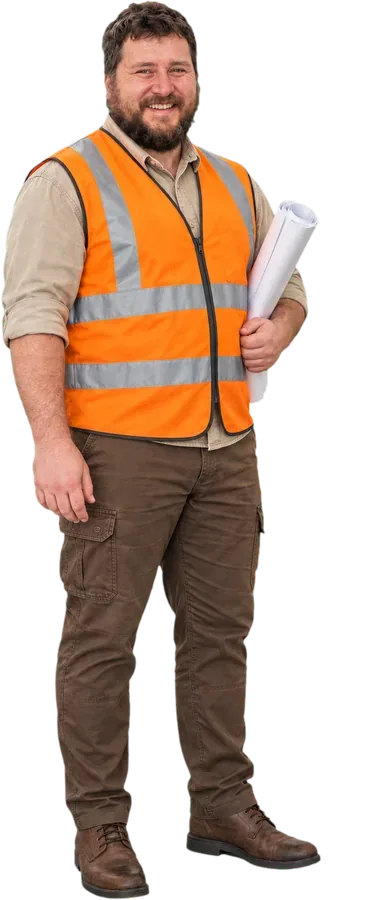
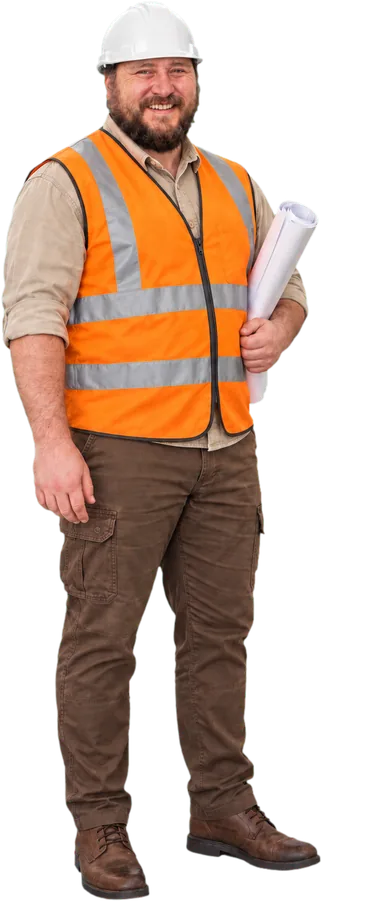
Sync z kamenictvi-web 04e905e

diff --git a/postava.js b/postava.js
@@ -1,12 +1,12 @@
 /* Kamenik Ales se pri scrollu prevlece podle sekce (12. 10. 2026).
-   Postava vyskoci z obrazovky nahoru a spadne zpet uz v nove podobe; u staveb mu helma dopadne na hlavu.
+   Postava vyskoci z obrazovky nahoru a spadne zpet uz v nove podobe; u staveb ma helmu nasazenou primo v obrazku (15. 10. 2026, vytka AP: prilétající helma sedela spatne).
    14. 10. 2026 (vytka AP "na kazde fotce vypadam jinak"): vsechny podoby = jedna vychozi postava, meni se jen obleceni;
    stejna vyska temeno-podrazka (900 px), osa hlavy ve stejne vzdalenosti od praveho okraje. */
 (function(){
   var POSTAVY = {
     nahrobky: { src: "/obrazky/postava-hroby.webp?v=1014ze", w: 381, h: 900 },
     interier: { src: "/obrazky/postava-interier.webp?v=1014ze", w: 545, h: 900 },
-    stavby: { src: "/obrazky/postava-stavby.webp?v=1014ze", w: 385, h: 900, helma: { x: 0.40, y: -0.055, w: 0.39 } },
+    stavby: { src: "/obrazky/postava-stavby.webp?v=1015a", w: 385, h: 901 },
     obce: { src: "/obrazky/postava-obce.webp?v=1014ze", w: 399, h: 900,
       skici: ["/obrazky/postava-obce-tgm.webp?v=1014ze", "/obrazky/postava-obce-valecny.webp?v=1014ze", "/obrazky/postava-obce-hrobka.webp?v=1014ze", "/obrazky/postava-obce-kriz.webp?v=1014ze"] }
   };
@@ -41,9 +41,9 @@
   var box = document.createElement("div");
   box.className = "postava";
   box.setAttribute("aria-hidden", "true");
-  box.innerHTML = '<div class="postava__telo"><img alt="" decoding="async"></div><img class="postava__helma" src="/obrazky/postava-helma.webp" alt="" decoding="async">';
+  box.innerHTML = '<div class="postava__telo"><img alt="" decoding="async"></div>';
   document.body.appendChild(box);
-  var telo = box.querySelector(".postava__telo"), img = telo.querySelector("img"), helma = box.querySelector(".postava__helma");
+  var telo = box.querySelector(".postava__telo"), img = telo.querySelector("img");
   ids.forEach(function(id){ var p = new Image(); p.src = POSTAVY[id].src; });
 
   /* Obce: na desce je vzdy nakreslen pamatnik, na ktery Ales prave ukazuje (vytka AP 14. 10. 2026).

diff --git a/index.html b/index.html
@@ -277,6 +277,6 @@
 <div class="mbar" aria-label="Rychlý kontakt"><a class="mbar__call" href="tel:+420602108793">Zavolat</a><a class="mbar__form" href="/#kontakt">Poptávka</a></div>
 
 <script src="/skript.js?v=1014zi"></script>
-<script src="/postava.js?v=1014zh" defer></script>
+<script src="/postava.js?v=1015a" defer></script>
 </body>
 </html>

diff --git a/de/index.html b/de/index.html
@@ -278,6 +278,6 @@
 
 <script src="/jazyky.js?v=1014y"></script>
 <script src="/skript.js?v=1014zi"></script>
-<script src="/postava.js?v=1014zh" defer></script>
+<script src="/postava.js?v=1015a" defer></script>
 </body>
 </html>

diff --git a/en/index.html b/en/index.html
@@ -278,6 +278,6 @@
 
 <script src="/jazyky.js?v=1014y"></script>
 <script src="/skript.js?v=1014zi"></script>
-<script src="/postava.js?v=1014zh" defer></script>
+<script src="/postava.js?v=1015a" defer></script>
 </body>
 </html>

diff --git a/pl/index.html b/pl/index.html
@@ -278,6 +278,6 @@
 
 <script src="/jazyky.js?v=1014y"></script>
 <script src="/skript.js?v=1014zi"></script>
-<script src="/postava.js?v=1014zh" defer></script>
+<script src="/postava.js?v=1015a" defer></script>
 </body>
 </html>

diff --git a/sk/index.html b/sk/index.html
@@ -278,6 +278,6 @@
 
 <script src="/jazyky.js?v=1014y"></script>
 <script src="/skript.js?v=1014zi"></script>
-<script src="/postava.js?v=1014zh" defer></script>
+<script src="/postava.js?v=1015a" defer></script>
 </body>
 </html>

diff --git a/uk/index.html b/uk/index.html
@@ -278,6 +278,6 @@
 
 <script src="/jazyky.js?v=1014y"></script>
 <script src="/skript.js?v=1014zi"></script>
-<script src="/postava.js?v=1014zh" defer></script>
+<script src="/postava.js?v=1015a" defer></script>
 </body>
 </html>
